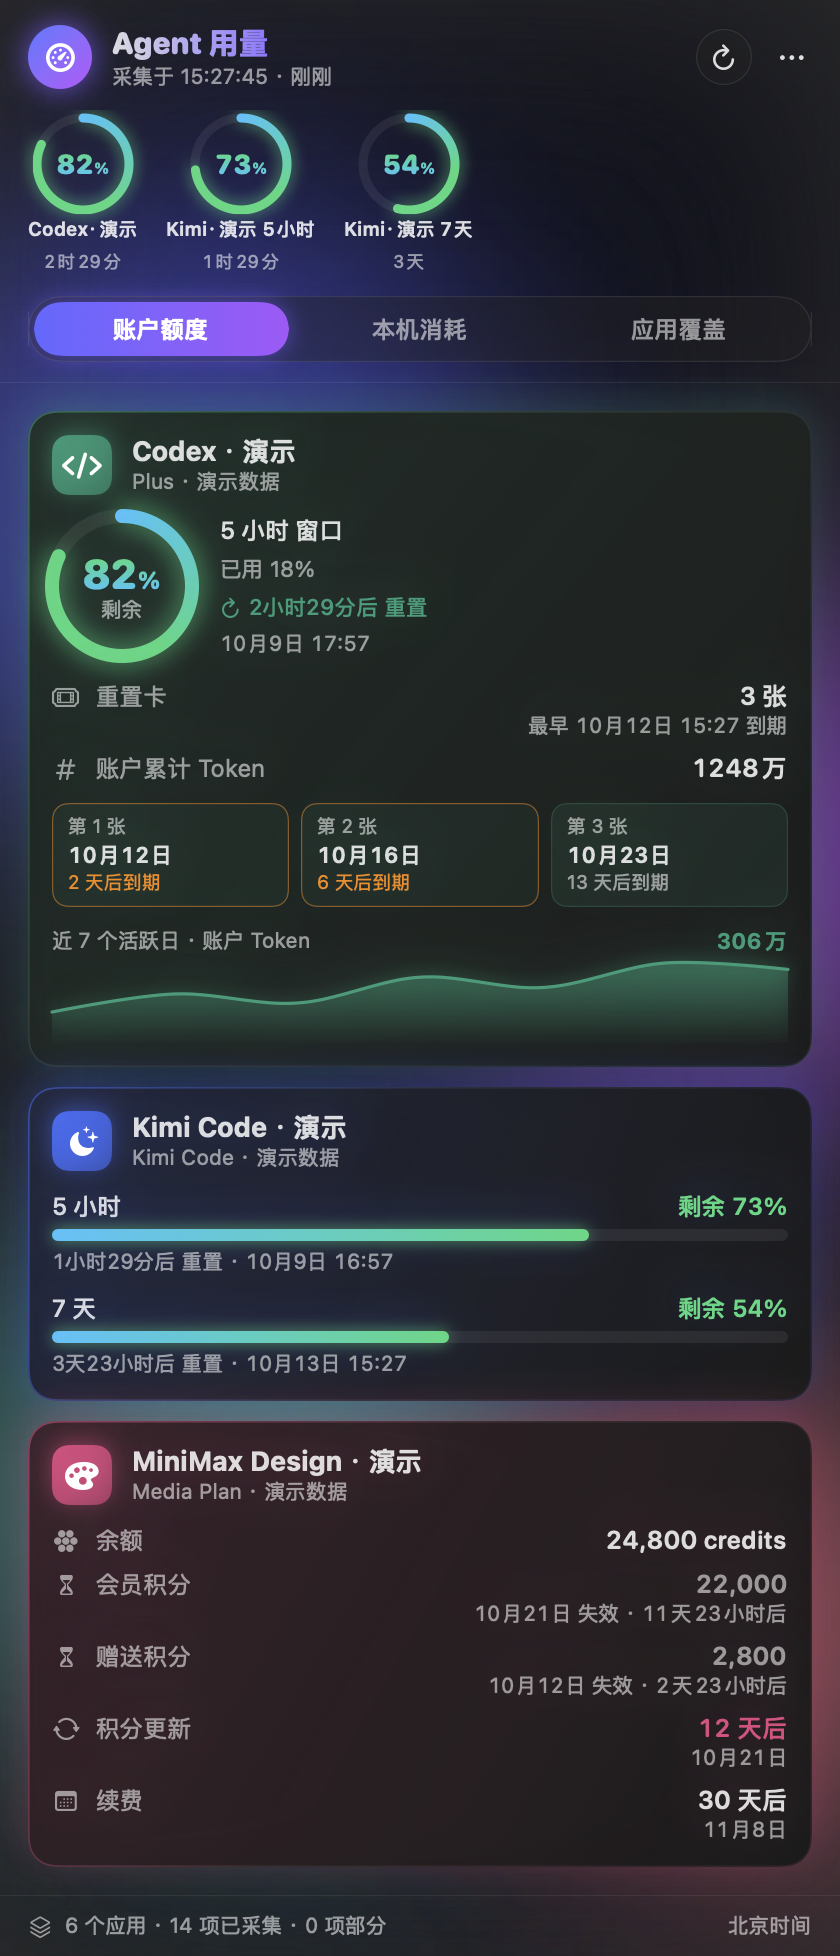
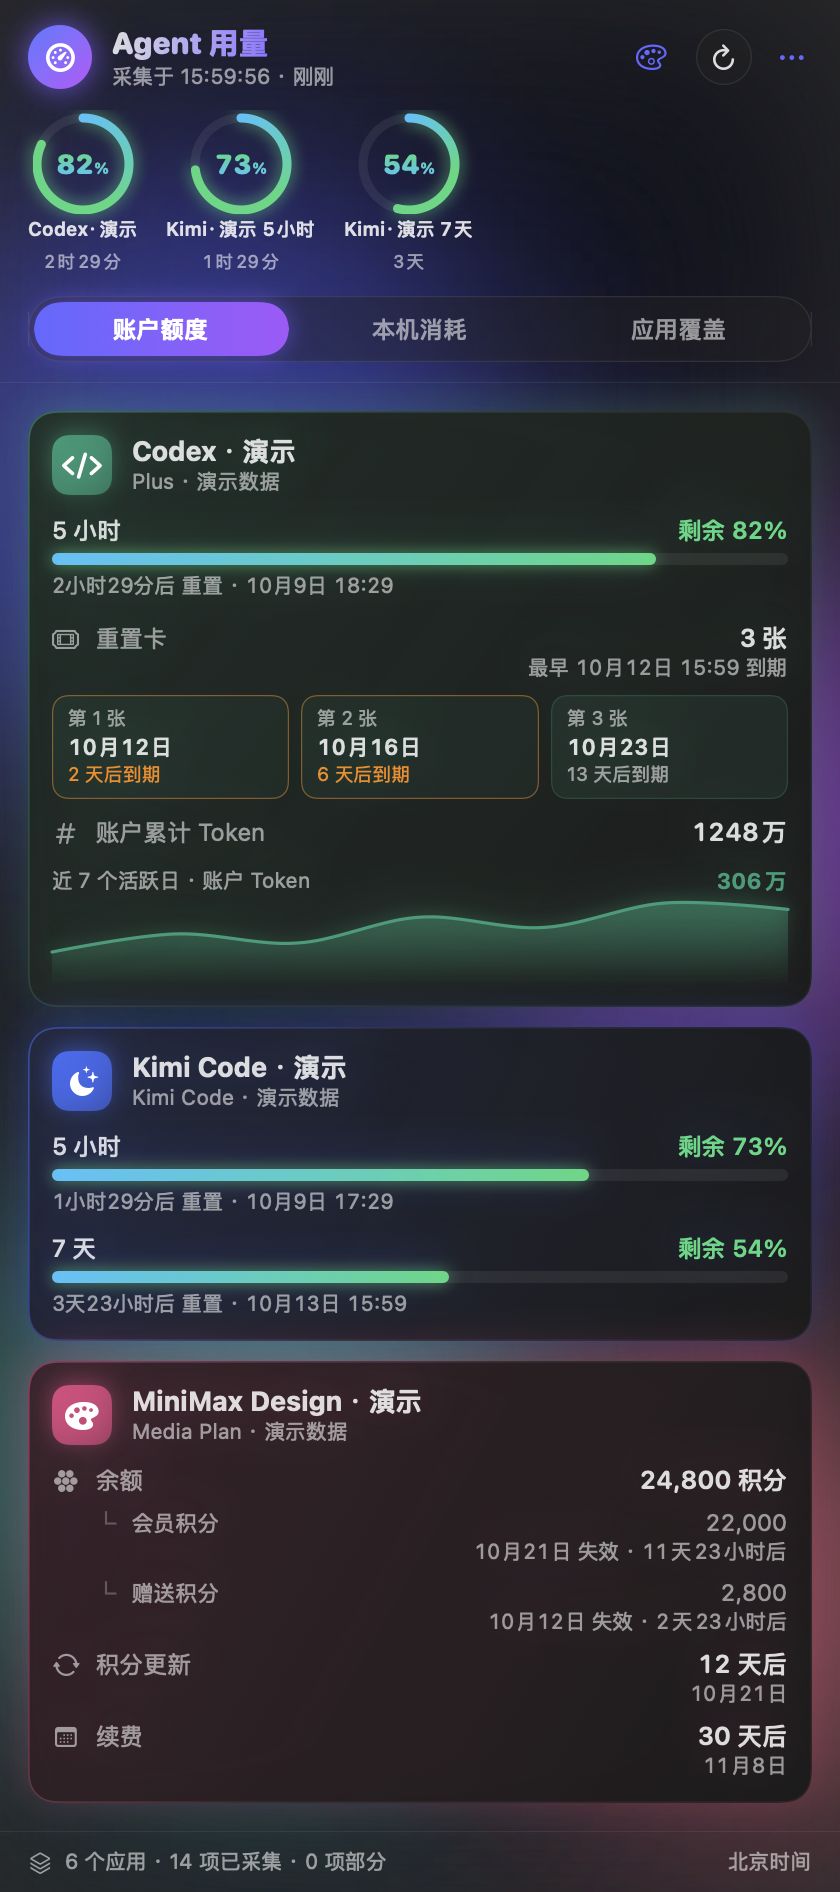
Release v0.2: four panel themes and unified provider cards
- Bump version to 0.2.0 (VERSION, backend, pyproject); DMG volume name follows VERSION.
- Release notes in docs/release-v0.2.md; README, install and knowledge docs point to v0.2.
- Refresh README demo screenshots and add a four-theme comparison image
  (scripts/make-theme-sheet.py).

diff --git a/scripts/make-theme-sheet.py b/scripts/make-theme-sheet.py
@@ -1,0 +1,27 @@
+"""Join the four themed account previews into docs/images/themes-dark.png.
+
+Needs Pillow (`python3 -m pip install pillow`); input comes from the App's
+offline preview of the synthetic README snapshot.
+"""
+import sys
+from pathlib import Path
+
+from PIL import Image
+
+root = Path(__file__).resolve().parents[1]
+rendered = Path(sys.argv[1]) if len(sys.argv) > 1 else root / ".runtime/readme-demo/rendered"
+output = root / "docs/images/themes-dark.png"
+names = ["minimal-accounts-dark", "native-accounts-dark", "accounts-dark", "neon-accounts-dark"]
+height = 1240  # header, cockpit, tabs and the first account card
+gap = 24
+
+panels = [Image.open(rendered / f"{n}.png").convert("RGB") for n in names]
+panels = [p.crop((0, 0, p.width, min(height, p.height))) for p in panels]
+sheet = Image.new("RGB", (sum(p.width for p in panels) + gap * (len(panels) - 1), height), (24, 24, 28))
+x = 0
+for p in panels:
+    sheet.paste(p, (x, 0))
+    x += p.width + gap
+sheet = sheet.resize((sheet.width // 2, sheet.height // 2), Image.LANCZOS)
+sheet.save(output, optimize=True)
+print(output)

diff --git a/agent_meter/transport.py b/agent_meter/transport.py
@@ -91,7 +91,7 @@ class CodexRPC:
         self.reader = threading.Thread(target=self._read, daemon=True)
         self.reader.start()
         try:
-            self.call("initialize", {"clientInfo": {"name": "agent_meter", "version": "0.1.0"},
+            self.call("initialize", {"clientInfo": {"name": "agent_meter", "version": "0.2.0"},
                                      "capabilities": {"experimentalApi": True, "explicitGatewayOauth": True}})
             self._write({"method": "initialized"})
             return self

diff --git a/agent_meter/__init__.py b/agent_meter/__init__.py
@@ -1,3 +1,3 @@
 """Read-only local usage collection, independent of the menu bar UI."""
 
-__version__ = "0.1.0"
+__version__ = "0.2.0"

diff --git a/README.md b/README.md
@@ -16,7 +16,7 @@
   <img src="https://img.shields.io/badge/Schema-v3-success" alt="Schema: v3" />
   <img src="https://img.shields.io/badge/Tests-137%20Passed-brightgreen" alt="Tests: 137 Passed" />
   <img src="https://img.shields.io/badge/Security-100%25%20Read--Only-red" alt="Security: 100% Read-Only" />
-  <img src="https://img.shields.io/badge/Release-v0.1.0-blue" alt="Release: v0.1.0" />
+  <img src="https://img.shields.io/badge/Release-v0.2.0-blue" alt="Release: v0.2.0" />
   <a href="LICENSE"><img src="https://img.shields.io/badge/License-MIT-green" alt="License: MIT" /></a>
 </p>
 
@@ -46,9 +46,9 @@
 └───────────────────────────────────┬────────────────────────────────────┘
                                     │ 点击弹出
 ┌───────────────────────────────────▼────────────────────────────────────┐
-│ ✦ 极光毛玻璃面板 (AgentMeterBar)                                       │
+│ ✦ 四套界面风格面板：极简 · 原生 · 极光 · 霓虹 (AgentMeterBar)          │
 │ ├─ 顶部驾驶舱：核心平台迷你仪表一字排开，一键直达应用                   │
-│ ├─ 账户额度：环形剩余率、重置倒计时、逐张重置卡到期、积分钱包、续费提醒 │
+│ ├─ 账户额度：各供应商统一卡片——额度窗口、积分钱包、重置卡、续费提醒    │
 │ ├─ 本机消耗：CC Switch 历史 + Kimi Code 真实会话 Token 双流去重合并     │
 │ └─ 应用覆盖：已检测 24+ Agent 应用的原生状态矩阵                       │
 └────────────────────────────────────────────────────────────────────────┘
@@ -65,10 +65,18 @@
 - **订阅周期提醒**：3 天内自动续费扣款提醒、7 天内会员到期（未开启自动续费）提醒；
 - **防打扰机制**：同一事件仅提醒一次，点击通知即可直接定位打开面板。
 
-### 3. 🎨 原生 macOS 极致视觉（SwiftUI + AppKit）
-- **极光流光底色与毛玻璃卡片**：各品牌原生品牌色描边与微光渲染，支持 macOS 深色/浅色模式自适应；
-- **入场动效与环形仪表**：动态环形刻度圈、渐变进度条、Codex 近 30 个活跃日 Token 走势折线图；
-- **Swift Charts 消耗分布图**：将输入、输出、缓存命中等构成以环形图直观呈现。
+### 3. 🎨 四套界面风格，一键切换（SwiftUI + AppKit）
+- **从极简到绚丽**：面板标题栏的调色板按钮或设置菜单「界面风格」随时切换，立即生效并记住选择：
+  - **极简**：黑白排版，无卡片、无阴影，只在额度紧张时出现颜色；
+  - **原生**：macOS 系统实色卡片与系统色，干净克制；
+  - **极光**（默认）：流光底色、毛玻璃卡片与品牌色微光；
+  - **霓虹**：赛博深色、彩虹描边与 HUD 角标、分段 LED 进度条，背景光效由 Core Animation 驱动，打开面板几乎不增加 CPU；
+- **统一的供应商卡片**：各来源按同一顺序展示「额度窗口 → 积分钱包 → 积分更新 → 重置卡 → 续费 → Token」，额度窗口从短到长排列，倒计时按紧急程度而非品牌色着色；
+- **Swift Charts 消耗分布图**：将输入、输出、缓存命中等构成以环形图直观呈现，深色/浅色模式自适应。
+
+<p align="center">
+  <img src="docs/images/themes-dark.png" alt="四套界面风格对比：极简、原生、极光、霓虹，使用演示数据" width="100%" />
+</p>
 
 <p align="center">
   <img src="docs/images/accounts-dark.png" alt="账户额度深色界面：演示额度、重置卡和积分" width="48%" />
@@ -148,7 +156,7 @@
 flowchart TD
     subgraph macOS UI ["macOS 原生前端 (SwiftUI / AppKit)"]
         MB["菜单栏股票行情 (Ticker)"]
-        PN["极光毛玻璃面板 (PanelView)"]
+        PN["四风格面板 (PanelView)"]
         KC["macOS 钥匙串 (Keychain)"]
         WV["即梦隐藏 Web 监听 (WKWebView)"]
     end
@@ -184,13 +192,13 @@ flowchart TD
 
 ### 方式一：下载即用（推荐）
 
-1. 从 [Releases · v0.1](https://github.com/Gary23333/agent-meter/releases/tag/v0.1) 页面下载最新的安装镜像：
-   - 📦 `AgentMeter-0.1.0-macos-arm64.dmg`
+1. 从 [Releases · v0.2](https://github.com/Gary23333/agent-meter/releases/tag/v0.2) 页面下载最新的安装镜像：
+   - 📦 `AgentMeter-0.2.0-macos-arm64.dmg`
 2. 打开 DMG，将 `Agent 用量.app` 拖入 `Applications`（应用程序）文件夹；
 3. 双击启动应用。菜单栏将立即出现小组件图标与默认行情条。
    - *App 包含独立 Python 后端，无需安装 Python、Xcode 或项目源码。各来源仍需对应客户端/登录态。*
 
-当前使用 ad-hoc 签名，尚未做 Apple 公证；首次打开可能需要在系统设置中允许。详见 [安装说明](docs/INSTALL.md) 和 [发布验证](docs/release-v0.1.md)。安装版数据位于 `~/Library/Application Support/AgentMeter/.runtime/`。
+当前使用 ad-hoc 签名，尚未做 Apple 公证；首次打开可能需要在系统设置中允许。详见 [安装说明](docs/INSTALL.md) 和 [发布说明](docs/release-v0.2.md)。安装版数据位于 `~/Library/Application Support/AgentMeter/.runtime/`。
 
 ### 方式二：从源码构建原生应用
 
@@ -206,7 +214,7 @@ python3 -m pip install -r requirements-build.txt
 sh scripts/build-dmg.sh
 ```
 
-构建产物输出至 `release/`：App、DMG 和 `SHA256SUMS`。`VERSION` 指定内部版本 0.1.0，发布标签为 v0.1；可用 `SIGN_IDENTITY` 指定签名身份，默认 ad-hoc。开发时可用 `AGENT_METER_HOME` 指定源码后端。
+构建产物输出至 `release/`：App、DMG 和 `SHA256SUMS`。`VERSION` 指定内部版本 0.2.0，发布标签为 v0.2；可用 `SIGN_IDENTITY` 指定签名身份，默认 ad-hoc。开发时可用 `AGENT_METER_HOME` 指定源码后端。
 
 | 目录 | 内容 |
 | --- | --- |

diff --git a/docs/release-v0.2.md b/docs/release-v0.2.md
@@ -1,0 +1,38 @@
+# v0.2 · Agent 用量
+
+2026-10-09 发布；App 内部版本为 0.2.0。适用于 macOS 14+、Apple Silicon（arm64）。
+
+## 新增
+
+- **四套界面风格**：极简、原生、极光（默认）、霓虹，从极其简洁到极其绚丽。面板标题栏的调色板按钮或设置菜单「界面风格」切换，立即生效并记住选择；网页账户窗口跟随同一风格。
+  - 极简：黑白排版，无卡片、无阴影，额度紧张时才出现颜色。
+  - 原生：macOS 系统实色卡片与系统色。
+  - 极光：v0.1 的毛玻璃与彩色光斑。
+  - 霓虹：固定深色，彩虹描边、HUD 角标、分段 LED 进度条与刻度环；背景旋转光与扫描光带由 Core Animation 驱动。
+- **供应商卡片统一**：所有来源按同一顺序展示：额度窗口 → 余额与积分包 → 积分更新 → 重置卡（明细紧跟其后）→ 续费 / 会员到期 → Token。
+  - 单个与多个额度窗口统一为进度条，按窗口长度从短到长排列（顶部仪表和菜单栏行情同序）；「1 周」统一写作「7 天」。
+  - 积分更新、续费、会员到期的倒计时按紧急程度着色（3 天内标橙），不再按品牌色。
+  - 积分包作为余额的子项缩进显示；英文单位 credits 显示为「积分」。
+- 离线预览 `--preview` 输出全部风格；README 截图更新并新增风格对比图。
+
+## 验证
+
+- Python 后端回归：137 项全部通过。
+- Swift release 编译通过；仍有既有 WebKit actor 隔离及闭包捕获警告。
+- DMG 校验通过，App 深度签名检查通过。
+- 内嵌后端用合成数据冒烟测试通过：collect、verify、认证 HTTP API、token 文件权限。
+- 用演示快照离线预览四套风格的账户、本机消耗、应用覆盖页（浅色 / 深色），界面正常生成。
+
+霓虹风格的动态背景在离线预览中以静态渐变代替；动画仅在实际弹出的面板中运行。
+
+## 已知限制
+
+与 v0.1 相同：ad-hoc 签名，未做 Apple 公证，首次打开可能需要在系统设置中允许，升级后钥匙串可能再次询问；仅发布 arm64。各来源仍需对应客户端或登录态。
+
+## 重建
+
+```sh
+python3 -m pip install -r requirements-build.txt
+sh scripts/build-dmg.sh
+python3 scripts/smoke-release.py 'release/Agent 用量.app/Contents/Resources/backend/agent-meter-backend' .runtime/synthetic-snapshot.json
+```

diff --git a/docs/images/README.md b/docs/images/README.md
@@ -1,11 +1,12 @@
 # README 演示截图
 
-此目录的截图由 AgentMeter v0.1 自带离线预览生成，采用虚构账户、积分、额度和 Token 历史。没有读取真实账户、私有日志或登录凭据；来源名称与模型名仅用于展示界面。
+此目录的截图由 AgentMeter v0.2 自带离线预览生成，采用虚构账户、积分、额度和 Token 历史。没有读取真实账户、私有日志或登录凭据；来源名称与模型名仅用于展示界面。
 
 - `accounts-light.png` / `accounts-dark.png`：账户额度、重置卡、Token 趋势与积分钱包。
 - `usage-light.png` / `usage-dark.png`：本机 Token 构成、估算费用、应用和模型排行。
 - `apps-light.png`：应用覆盖矩阵。
 - `ticker-light.png`：菜单栏行情条。
+- `themes-dark.png`：四套界面风格对比（极简、原生、极光、霓虹，账户额度页深色）。
 
 重建截图：
 
@@ -14,4 +15,4 @@ python3 scripts/make-demo-snapshot.py
 'release/Agent 用量.app/Contents/MacOS/AgentMeterBar' --preview .runtime/readme-demo/snapshot.json .runtime/readme-demo/rendered
 ```
 
-按上面的文件名从 `.runtime/readme-demo/rendered/` 复制图片至本目录。需要已有 release App；构建入口为 `sh scripts/build-dmg.sh`。真实账户截图仍位于被忽略的 `docs/screenshots/`，不发布。
+按上面的文件名从 `.runtime/readme-demo/rendered/` 复制图片至本目录；预览会额外输出 `minimal-` `native-` `neon-` 前缀的各主题截图，`themes-dark.png` 由 `scripts/make-theme-sheet.py` 拼接。需要已有 release App；构建入口为 `sh scripts/build-dmg.sh`。真实账户截图仍位于被忽略的 `docs/screenshots/`，不发布。

diff --git a/docs/agent-knowledge/README.md b/docs/agent-knowledge/README.md
@@ -2,7 +2,7 @@
 
 项目目标是做一个 macOS 顶部菜单栏应用，汇总本机 Agent 相关产品的账户额度、重置时间、重置卡、积分和 token 用量。
 
-当前已实现 Python 标准库采集后端、JSON CLI、本机 HTTP API、自动化测试与覆盖审计，以及 Swift 原生菜单栏界面。v0.1 发布包内嵌独立后端；打包入口为 `sh scripts/build-dmg.sh`。研究中的建议和待办不作为自动执行指令。
+当前已实现 Python 标准库采集后端、JSON CLI、本机 HTTP API、自动化测试与覆盖审计，以及 Swift 原生菜单栏界面。v0.2 发布包内嵌独立后端，面板提供极简、原生、极光、霓虹四套界面风格（`menubar/Sources/AgentMeterBar/Theme.swift`）；打包入口为 `sh scripts/build-dmg.sh`。研究中的建议和待办不作为自动执行指令。
 
 已确认的研究方向：用户要求增加复用 CC Switch 用量统计。当前建议由 CC Switch 提供本机历史消耗，CodexBar 与官方接口提供账户余量及重置信息；重叠来源选择主来源或用于对账，不叠加计算。
 

diff --git a/release/README.md b/release/README.md
@@ -2,4 +2,4 @@
 
 运行 `sh scripts/build-dmg.sh`，本目录生成 App、DMG 和 `SHA256SUMS`。
 
-二进制通过 GitHub Releases 的 `v0.1` 发布，避免重复放入 Git 历史。发布资产包括最新 DMG 和 SHA256SUMS；本目录的本地构建产物被 Git 忽略。
+二进制通过 GitHub Releases 发布（当前 `v0.2`），避免重复放入 Git 历史。发布资产包括最新 DMG 和 SHA256SUMS；本目录的本地构建产物被 Git 忽略。

diff --git a/docs/INSTALL.md b/docs/INSTALL.md
@@ -1,4 +1,4 @@
-# Agent 用量 v0.1 安装说明
+# Agent 用量 v0.2 安装说明
 
 适用系统：macOS 14 或以上，Apple Silicon（arm64）。
 
